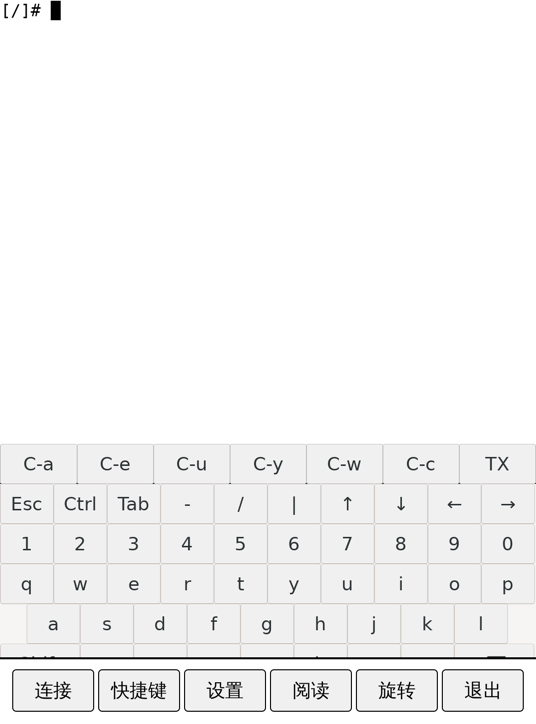
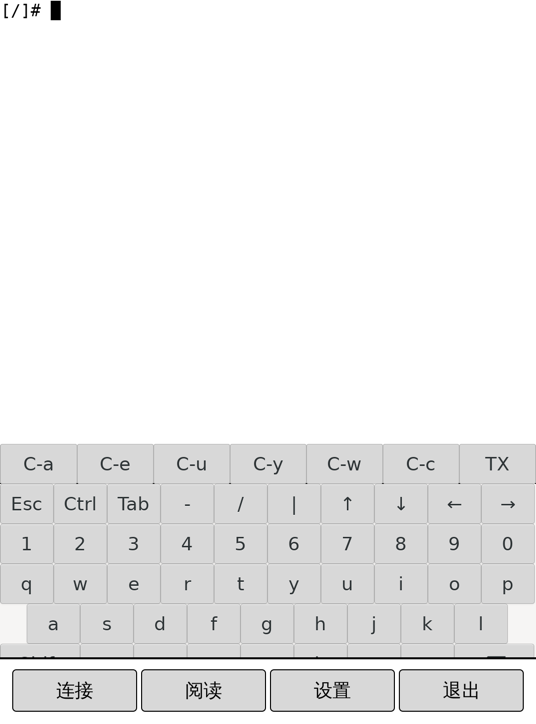
Panel: a disconnect button; rarely used actions move to the settings
The first row of the panel keeps what is used often: connections, a new
disconnect button, reading mode, the settings and quitting, the last at
the far right, away from disconnecting.

Disconnect shows only while an ssh client has the terminal. It hangs up
that client, as switching connections already did: only this end of the
connection goes, the shell it was started from is back, and programs in
tmux on the far machine keep running. Ctrl-D could not do this: inside
tmux it reaches the program in the pane, not ssh.

The settings page now holds the font size, the screen orientation (two
buttons, the one in effect drawn black, instead of a rotate button that
did not show the state) and the shortcuts, whose page goes back to the
settings.

uitest.sh builds its image when it is missing. Version 3.5.0.

diff --git a/panel.c b/panel.c
@@ -14,10 +14,12 @@
  */
 
 /*
- * The panel opened by swiping up. It opens on a row of actions; some lead
- * to pages of their own, each with a way back: the saved ssh connections
- * (with the form to add or edit one), the shortcuts (shortpage.c) and the
- * settings.
+ * The panel opened by swiping up. It opens on a row of actions, the ones
+ * used often: the saved ssh connections (a page of their own, with the form
+ * to add or edit one), hanging up the ssh session in the terminal, reading
+ * mode, the settings page and quitting. The settings page holds what is
+ * changed rarely: the font size, the screen orientation and the shortcuts
+ * (shortpage.c, a page below it). Each page has a way back.
  *
  * It is drawn inside the main window rather than as a window of its own:
  * the terminal keeps its size, so the program running in it is not
@@ -61,6 +63,8 @@ static GPtrArray *system_bars = NULL;
 static GtkWidget *home_page = NULL;
 /** Row of actions on the first page */
 static GtkWidget *home_row = NULL;
+/** On the first page while an ssh session has the terminal */
+static GtkWidget *disconnect_button = NULL;
 static GtkWidget *settings_page = NULL;
 static GtkWidget *settings_grid = NULL;
 static gint settings_count = 0;
@@ -88,6 +92,7 @@ static gchar *editing_name = NULL;
 static gboolean delete_armed = FALSE;
 
 static void show_list(void);
+static pid_t ssh_session(void);
 
 /**
  * Create a button in the panel's style.
@@ -206,6 +211,9 @@ void panel_show_page(GtkWidget *page) {
         }
     }
     current_page = page;
+    if (page == home_page && disconnect_button) {
+        gtk_widget_set_visible(disconnect_button, ssh_session() != 0);
+    }
     gtk_widget_show(page);
     // While a form is shown, keys such as Tab must not move the focus to
     // the terminal, where the rest of what is typed would run.
@@ -259,10 +267,13 @@ void panel_open(void) {
 }
 
 /**
- * Back to the first page
+ * Back button callback
+ * @param button Calling widget
+ * @param parent Page to go back to, NULL for the first page
  */
-static void show_home(void) {
-    panel_show_page(home_page);
+static void back_cb(GtkWidget *button, gpointer parent) {
+    UNUSED(button);
+    panel_show_page(parent ? GTK_WIDGET(parent) : home_page);
     focus_terminal();
 }
 
@@ -303,6 +314,29 @@ static gboolean is_ssh(pid_t pgid) {
     g_free(name);
     g_free(path);
     return ssh;
+}
+
+/**
+ * @return Process group of the ssh client that has the terminal, 0 if
+ *         there is none
+ */
+static pid_t ssh_session(void) {
+    const pid_t foreground = kterm_terminal_foreground();
+    return (foreground && is_ssh(foreground)) ? foreground : 0;
+}
+
+/**
+ * Disconnect button callback: hang up the ssh session in the terminal.
+ * Only the client here ends, as when its window is closed, and the shell
+ * it was started from is back; the far machine only sees the connection
+ * go (programs left running in tmux there keep running).
+ */
+static void disconnect_cb(void) {
+    const pid_t session = ssh_session();
+    if (session) {
+        kill(-session, SIGHUP);
+    }
+    panel_close();
 }
 
 /**
@@ -351,12 +385,12 @@ static void connect_cb(GtkWidget *button, gpointer data) {
     // Typed while something else has the terminal, the command would go to
     // that program: inside an ssh session it would run on the far machine,
     // which does not know the names saved here.
-    const pid_t foreground = kterm_terminal_foreground();
-    if (foreground && is_ssh(foreground)) {
+    const pid_t session = ssh_session();
+    if (session) {
         // Another connection is open: picking one switches to it. The open
         // session is hung up, as when its window is closed, and the new
         // command is typed once the shell is back.
-        kill(-foreground, SIGHUP);
+        kill(-session, SIGHUP);
         g_free(switch_command);
         switch_command = g_strdup_printf(SSH_COMMAND, host->name);
         switch_tries = 0;
@@ -366,7 +400,7 @@ static void connect_cb(GtkWidget *button, gpointer data) {
         panel_close();
         return;
     }
-    if (foreground) {
+    if (kterm_terminal_foreground()) {
         // some other program (an editor, a pager): not ours to end
         gtk_label_set_text(GTK_LABEL(empty_label), "终端里有程序在运行，先退出它再连接。");
         gtk_widget_show(empty_label);
@@ -630,14 +664,15 @@ static GtkWidget * add_field(GtkWidget *grid, gint row, const gchar *title, cons
  * Start a page with its back button and title
  * @param page Page widget
  * @param title Title text
+ * @param parent Page the back button goes to, NULL for the first page
  * @return Header row, for more buttons on the right
  */
-GtkWidget * panel_page_header(GtkWidget *page, const gchar *title) {
+GtkWidget * panel_page_header(GtkWidget *page, const gchar *title, GtkWidget *parent) {
     GtkWidget *header = gtk_box_new(GTK_ORIENTATION_HORIZONTAL, PANEL_SPACING);
     // an arrow, as on the Kindle's own pages
     GtkWidget *back = panel_button_new("←");
     gtk_widget_set_name(back, PANEL_BACK_NAME);
-    g_signal_connect(back, "clicked", G_CALLBACK(show_home), NULL);
+    g_signal_connect(back, "clicked", G_CALLBACK(back_cb), parent);
     GtkWidget *label = gtk_label_new(NULL);
     gchar *markup = g_markup_printf_escaped("<b>%s</b>", title);
     gtk_label_set_markup(GTK_LABEL(label), markup);
@@ -651,7 +686,8 @@ GtkWidget * panel_page_header(GtkWidget *page, const gchar *title) {
 
 /**
  * Build the first page: a row of actions. There is no close button: a touch
- * on the terminal puts the panel away.
+ * on the terminal puts the panel away. Quitting, added last, ends at the
+ * far right, away from disconnecting.
  * @return Page widget
  */
 static GtkWidget * build_home_page(void) {
@@ -660,10 +696,13 @@ static GtkWidget * build_home_page(void) {
     gtk_widget_set_name(home_row, "ktermPanelActions");
     gtk_box_set_homogeneous(GTK_BOX(home_row), TRUE);
     GtkWidget *connections = panel_button_new("连接");
+    disconnect_button = panel_button_new("断开");
     GtkWidget *settings = panel_button_new("设置");
     g_signal_connect(connections, "clicked", G_CALLBACK(connections_cb), NULL);
+    g_signal_connect(disconnect_button, "clicked", G_CALLBACK(disconnect_cb), NULL);
     g_signal_connect_swapped(settings, "clicked", G_CALLBACK(panel_show_page), settings_page);
     gtk_box_pack_start(GTK_BOX(home_row), connections, TRUE, TRUE, 0);
+    gtk_box_pack_start(GTK_BOX(home_row), disconnect_button, TRUE, TRUE, 0);
     gtk_box_pack_start(GTK_BOX(home_row), settings, TRUE, TRUE, 0);
     gtk_box_pack_start(GTK_BOX(page), home_row, FALSE, FALSE, 0);
     return page;
@@ -675,7 +714,7 @@ static GtkWidget * build_home_page(void) {
  */
 static GtkWidget * build_settings_page(void) {
     GtkWidget *page = gtk_box_new(GTK_ORIENTATION_VERTICAL, PANEL_SPACING);
-    panel_page_header(page, "设置");
+    panel_page_header(page, "设置", NULL);
     settings_grid = gtk_grid_new();
     gtk_grid_set_row_spacing(GTK_GRID(settings_grid), PANEL_SPACING);
     gtk_grid_set_column_spacing(GTK_GRID(settings_grid), PANEL_SPACING * 2);
@@ -689,7 +728,7 @@ static GtkWidget * build_settings_page(void) {
  */
 static GtkWidget * build_list_page(void) {
     GtkWidget *page = gtk_box_new(GTK_ORIENTATION_VERTICAL, PANEL_SPACING);
-    GtkWidget *header = panel_page_header(page, "SSH 连接");
+    GtkWidget *header = panel_page_header(page, "SSH 连接", NULL);
     prev_button = panel_button_new("‹");
     next_button = panel_button_new("›");
     page_label = gtk_label_new(NULL);
@@ -774,13 +813,21 @@ void panel_add_action(GtkWidget *button, gint position) {
 }
 
 /**
+ * @return The settings page, for pages opened from it to go back to
+ */
+GtkWidget * panel_settings_page(void) {
+    return settings_page;
+}
+
+/**
  * Add a row to the settings page
  * @param title What is set
- * @param control Widget that sets it
+ * @param control Widget that sets it, kept at its own width
  */
 void panel_add_setting(const gchar *title, GtkWidget *control) {
     GtkWidget *label = gtk_label_new(title);
     gtk_label_set_xalign(GTK_LABEL(label), 0);
+    gtk_widget_set_halign(control, GTK_ALIGN_START);
     gtk_grid_attach(GTK_GRID(settings_grid), label, 0, settings_count, 1, 1);
     gtk_grid_attach(GTK_GRID(settings_grid), control, 1, settings_count, 1, 1);
     settings_count++;

diff --git a/kterm.c b/kterm.c
@@ -641,6 +641,62 @@ static void panel_read_clicked_cb(GtkWidget *button, gpointer data) {
 
 /** The panel's reading button */
 static GtkWidget *panel_read_button = NULL;
+
+/** Orientation buttons of the settings page */
+static GtkWidget *portrait_button = NULL;
+static GtkWidget *landscape_button = NULL;
+
+/**
+ * @return TRUE if the screen is upright (or its orientation unknown)
+ */
+static gboolean is_portrait(void) {
+    return conf->orientation != 'R' && conf->orientation != 'L';
+}
+
+/**
+ * Mark the orientation the screen is in: its button is drawn black
+ */
+static void orientation_show(void) {
+    GtkWidget *on = is_portrait() ? portrait_button : landscape_button;
+    GtkWidget *off = is_portrait() ? landscape_button : portrait_button;
+    gtk_style_context_add_class(gtk_widget_get_style_context(on), "selected");
+    gtk_style_context_remove_class(gtk_widget_get_style_context(off), "selected");
+}
+
+/**
+ * Orientation button callback. The panel is put away first: the whole
+ * window is laid out again for the new screen.
+ * @param button Calling widget
+ * @param data Orientation asked for: 'U' or 'R'
+ */
+static void orientation_cb(GtkWidget *button, gpointer data) {
+    UNUSED(button);
+    const gchar request = (gchar) GPOINTER_TO_INT(data);
+    if ((request == 'U') == is_portrait()) {
+        return;
+    }
+    panel_close();
+    if (set_orientation(request)) {
+        conf->orientation = request;
+    }
+    orientation_show();
+}
+
+/**
+ * @return Row of the settings page choosing the screen orientation
+ */
+static GtkWidget * orientation_row(void) {
+    GtkWidget *row = gtk_box_new(GTK_ORIENTATION_HORIZONTAL, 8);
+    gtk_box_set_homogeneous(GTK_BOX(row), TRUE);
+    portrait_button = panel_button_new("竖屏");
+    landscape_button = panel_button_new("横屏");
+    g_signal_connect(portrait_button, "clicked", G_CALLBACK(orientation_cb), GINT_TO_POINTER('U'));
+    g_signal_connect(landscape_button, "clicked", G_CALLBACK(orientation_cb), GINT_TO_POINTER('R'));
+    gtk_box_pack_start(GTK_BOX(row), portrait_button, TRUE, TRUE, 0);
+    gtk_box_pack_start(GTK_BOX(row), landscape_button, TRUE, TRUE, 0);
+    orientation_show();
+    return row;
+}
 #endif
 
 /** Font sizes offered on the settings page */
@@ -696,11 +752,8 @@ static void add_panel_actions(void) {
     panel_read_button = read_button;
     g_signal_connect(read_button, "clicked", G_CALLBACK(panel_read_clicked_cb), NULL);
     g_signal_connect_swapped(read_button, "clicked", G_CALLBACK(panel_close), NULL);
-    panel_add_action(read_button, -1);
-    GtkWidget *rotate_button = panel_button_new("旋转");
-    g_signal_connect_swapped(rotate_button, "clicked", G_CALLBACK(panel_close), NULL);
-    g_signal_connect(rotate_button, "clicked", G_CALLBACK(screen_rotate), NULL);
-    panel_add_action(rotate_button, -1);
+    // after connecting and disconnecting, before the settings
+    panel_add_action(read_button, 2);
 #endif
     GtkWidget *quit_button = panel_button_new("退出");
     g_signal_connect(quit_button, "clicked", G_CALLBACK(gtk_main_quit), NULL);
@@ -715,6 +768,9 @@ static void add_panel_actions(void) {
     gtk_box_pack_start(GTK_BOX(font_row), size_label, FALSE, FALSE, 0);
     gtk_box_pack_start(GTK_BOX(font_row), font_size_button("+", 1, size_label), FALSE, FALSE, 0);
     panel_add_setting("字号", font_row);
+#ifdef KINDLE
+    panel_add_setting("屏幕方向", orientation_row());
+#endif
 }
 #endif
 

diff --git a/shortpage.c b/shortpage.c
@@ -305,7 +305,7 @@ static GtkWidget * add_field(GtkWidget *grid, gint row, const gchar *title, cons
 
 static GtkWidget * build_list_page(void) {
     GtkWidget *page = gtk_box_new(GTK_ORIENTATION_VERTICAL, SPACING);
-    GtkWidget *header = panel_page_header(page, "快捷键");
+    GtkWidget *header = panel_page_header(page, "快捷键", panel_settings_page());
     prev_button = panel_button_new("‹");
     next_button = panel_button_new("›");
     page_label = gtk_label_new(NULL);
@@ -372,16 +372,15 @@ static GtkWidget * build_form_page(void) {
 }
 
 /**
- * Add the shortcuts pages to the panel, and their button to its first page
- * (second place, after the connections). Needs panel_new() and
- * shortbar_new() done.
+ * Add the shortcuts pages to the panel, and the row leading to them to its
+ * settings page. Needs panel_new() and shortbar_new() done.
  */
 void shortpage_init(void) {
     list_page = build_list_page();
     form_page = build_form_page();
     panel_add_page(list_page, FALSE);
     panel_add_page(form_page, TRUE);
-    GtkWidget *open = panel_button_new("快捷键");
+    GtkWidget *open = panel_button_new("编辑 ›");
     g_signal_connect(open, "clicked", G_CALLBACK(open_cb), NULL);
-    panel_add_action(open, 1);
+    panel_add_setting("快捷键", open);
 }

diff --git a/kindle.c b/kindle.c
@@ -323,6 +323,9 @@ void inject_styles(void) {
                                     " border-radius: 8px; padding: 16px 20px; min-width: 0; min-height: 0;"
                                     " box-shadow: none; text-shadow: none; }"
                                     "#ktermPanelButton:disabled { color: #a0a0a0; border-color: #a0a0a0; }"
+                                    // the choice in effect, as a pressed modifier key
+                                    "#ktermPanelButton.selected { background: #000000; color: #ffffff; }"
+                                    "#ktermPanelButton.selected label { color: #ffffff; }"
                                     // the back arrow: no frame, large, like the Kindle's
                                     "#ktermPanelBack { background: transparent; color: #000000; border: none;"
                                     " box-shadow: none; text-shadow: none; padding: 4px 24px 4px 0;"

diff --git a/panel.h b/panel.h
@@ -29,7 +29,8 @@ GtkWidget * panel_new(GtkWidget *terminal);
 void panel_add_action(GtkWidget *button, gint position);
 void panel_add_page(GtkWidget *page, gboolean typing);
 void panel_show_page(GtkWidget *page);
-GtkWidget * panel_page_header(GtkWidget *page, const gchar *title);
+GtkWidget * panel_page_header(GtkWidget *page, const gchar *title, GtkWidget *parent);
+GtkWidget * panel_settings_page(void);
 void panel_add_bottom(GtkWidget *widget, gboolean system_bar);
 void panel_add_setting(const gchar *title, GtkWidget *control);
 GtkWidget * panel_button_new(const gchar *label);

diff --git a/shortcuts.c b/shortcuts.c
@@ -222,7 +222,7 @@ GPtrArray * shortcuts_load(const gchar *path, gchar **problems) {
 }
 
 /** On top of a file written from the panel when there was none */
-#define SHORTCUTS_NOTE "# kterm 快捷栏：一行一个按钮，写法见面板里的“快捷键”页\n\n"
+#define SHORTCUTS_NOTE "# kterm 快捷栏：一行一个按钮，写法见面板里的“设置 → 快捷键”页\n\n"
 
 /**
  * The text of the file for a list of buttons

diff --git a/README.md b/README.md
@@ -14,10 +14,9 @@
 - **快捷栏**：键盘上方一排按钮，点一下发一串按键，比如 `C-a`、`C-u`、tmux 前缀。可以在面板里添加、修改、删除；按钮多了左右滑动翻页。
 - **上滑面板**：在键盘上往上滑打开，点键盘或终端就收起。
   - **连接**：保存 SSH 服务器，点一下就连上；正在连着别的也能直接切过去。
-  - **快捷键**：管理快捷栏。
-  - **设置**：字号，改了会记住。
+  - **断开**：连着 SSH 时才出现，只断开 Kindle 这一端；远端 tmux 里的程序照常运行。
   - **阅读**：收起键盘专心看输出，上下滑动翻屏；在 tmux 里左右滑动切窗口。
-  - **旋转**：横屏 / 竖屏。
+  - **设置**：字号（改了会记住）、屏幕方向（竖屏 / 横屏）、快捷键（管理快捷栏）。
   - **退出**
 - **一键安装**：KPM 安装包，装完图书馆里多一个“终端”。
 
